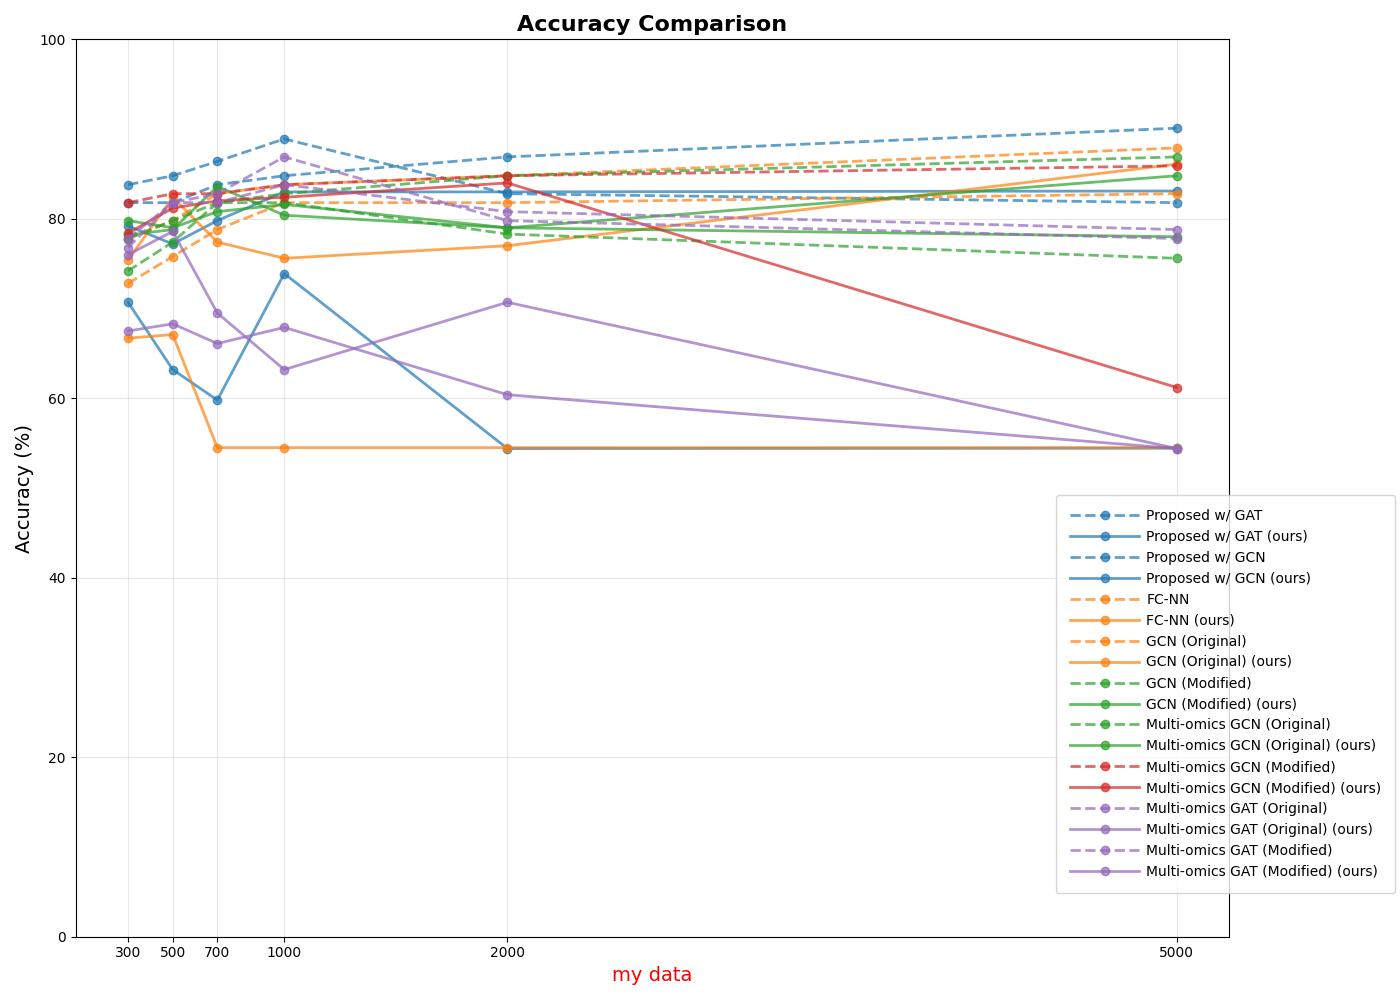
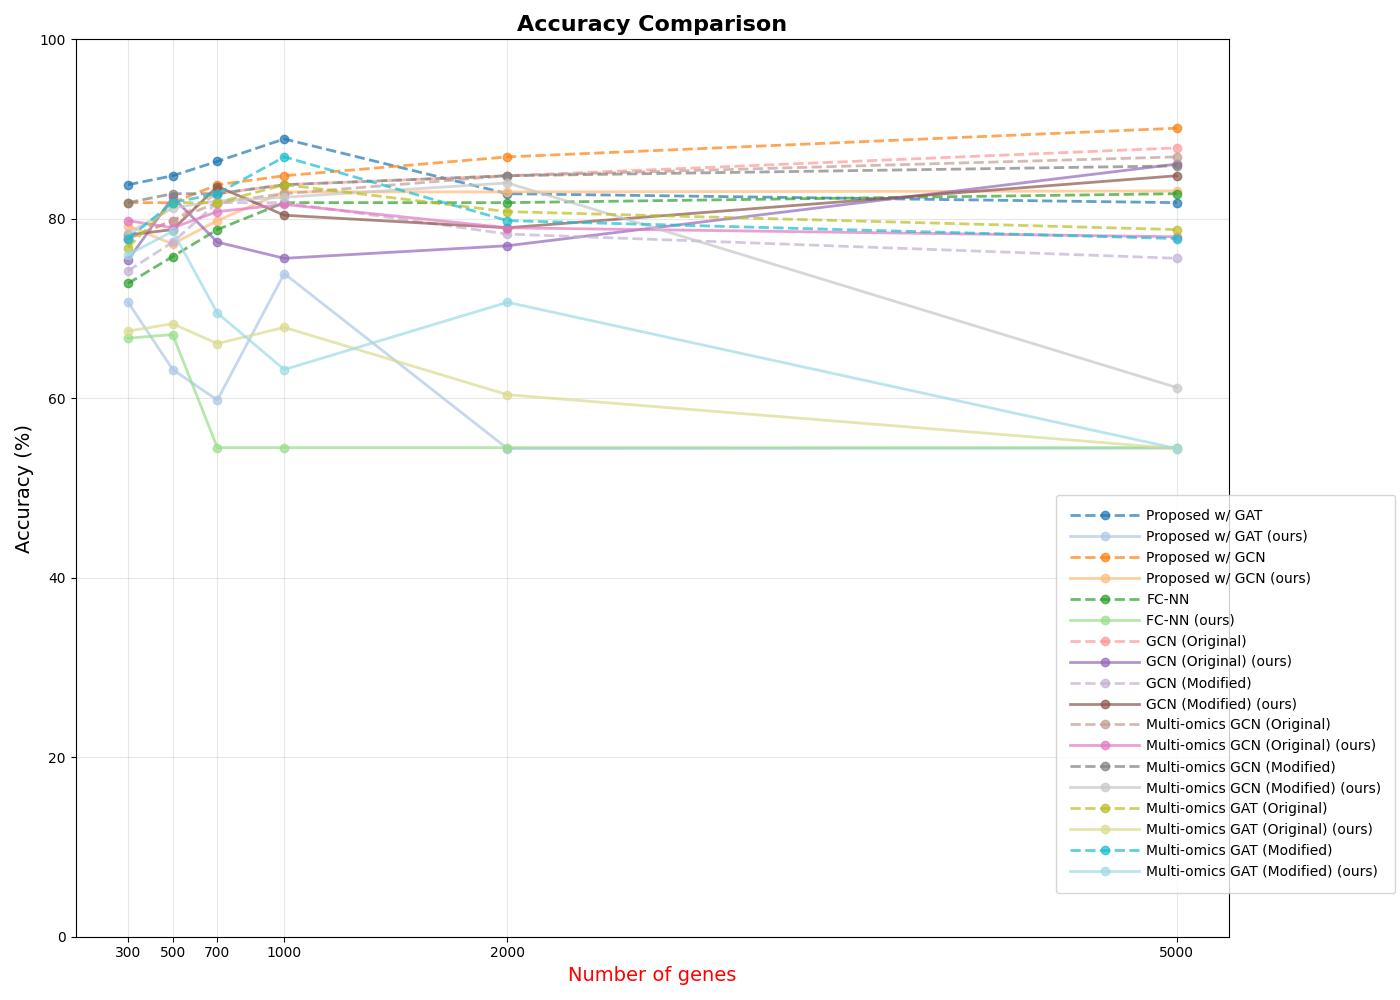
Modified colors so that each line gets a different color

diff --git a/graph_creation.py b/graph_creation.py
@@ -4,11 +4,8 @@ import numpy as np
 # Number of genes corresponding to each accuracy point
 gene_counts = [300, 500, 700, 1000, 2000, 5000]
 
-
-
 # Data
 methods = ['Proposed w/ GAT', 'Proposed w/ GAT (ours)', 'Proposed w/ GCN', 'Proposed w/ GCN (ours)', 'FC-NN', 'FC-NN (ours)',
-
 'GCN (Original)', 'GCN (Original) (ours)',  'GCN (Modified)',
            'GCN (Modified) (ours)', 'Multi-omics GCN (Original)','Multi-omics GCN (Original) (ours)', 'Multi-omics GCN (Modified)', 'Multi-omics GCN (Modified) (ours)',
            'Multi-omics GAT (Original)', 'Multi-omics GAT (Original) (ours)',  'Multi-omics GAT (Modified)', 'Multi-omics GAT (Modified) (ours)']
@@ -35,26 +32,18 @@ accuracy_data = [
     [76.0, 78.6, 69.5, 63.2, 70.7, 54.4]    # Multi-omics GAT (Modified) (even)
 ]
 
-
-
-
 # Create figure and subplots
 plt.figure(figsize=(14, 10))
 
-# Colors for different methods
-colors = plt.cm.tab10(np.linspace(0, 1, len(methods)))
+# Generate unique colors for each line
+colors = plt.cm.tab20(np.linspace(0, 1, len(accuracy_data)))
 
-# Plot accuracy data
-for i in range(0, len(accuracy_data), 2):
-    method_idx = i // 2
-    color = colors[method_idx]
-    
-    # Odd rows (dotted line)
-    plt.plot(gene_counts, accuracy_data[i], 'o--', color=color, alpha=0.7, linewidth=2, markersize=6, label=f'{methods[method_idx]} (odd)')
-    
-    # Even rows (solid line)
-    plt.plot(gene_counts, accuracy_data[i+1], 'o-', color=color, alpha=0.7, linewidth=2, markersize=6, label=f'{methods[method_idx]} (even)')
-
+# Plot accuracy data with unique colors
+for i, data in enumerate(accuracy_data):
+    if i % 2 == 0:  # Odd rows (dotted line)
+        plt.plot(gene_counts, data, 'o--', color=colors[i], alpha=0.7, linewidth=2, markersize=6, label=methods[i])
+    else:  # Even rows (solid line)
+        plt.plot(gene_counts, data, 'o-', color=colors[i], alpha=0.7, linewidth=2, markersize=6, label=methods[i])
 
 # Customize accuracy plot
 plt.title('Accuracy Comparison', fontsize=16, fontweight='bold')
@@ -62,11 +51,9 @@ plt.ylabel('Accuracy (%)', fontsize=14)
 plt.ylim(0, 100)
 plt.grid(True, alpha=0.3)
 plt.xticks(gene_counts)
-plt.xlabel('my data', fontsize=14, color='red')
-plt.legend(handlelength=5)
+plt.xlabel('Number of genes', fontsize=14, color='red')
 
 # Create a unified legend
-
 plt.legend(
     methods, loc='upper right', bbox_to_anchor=(1.15, 0.5), ncol=1, fontsize=10,
     handlelength=5,      # Length of the legend handles
